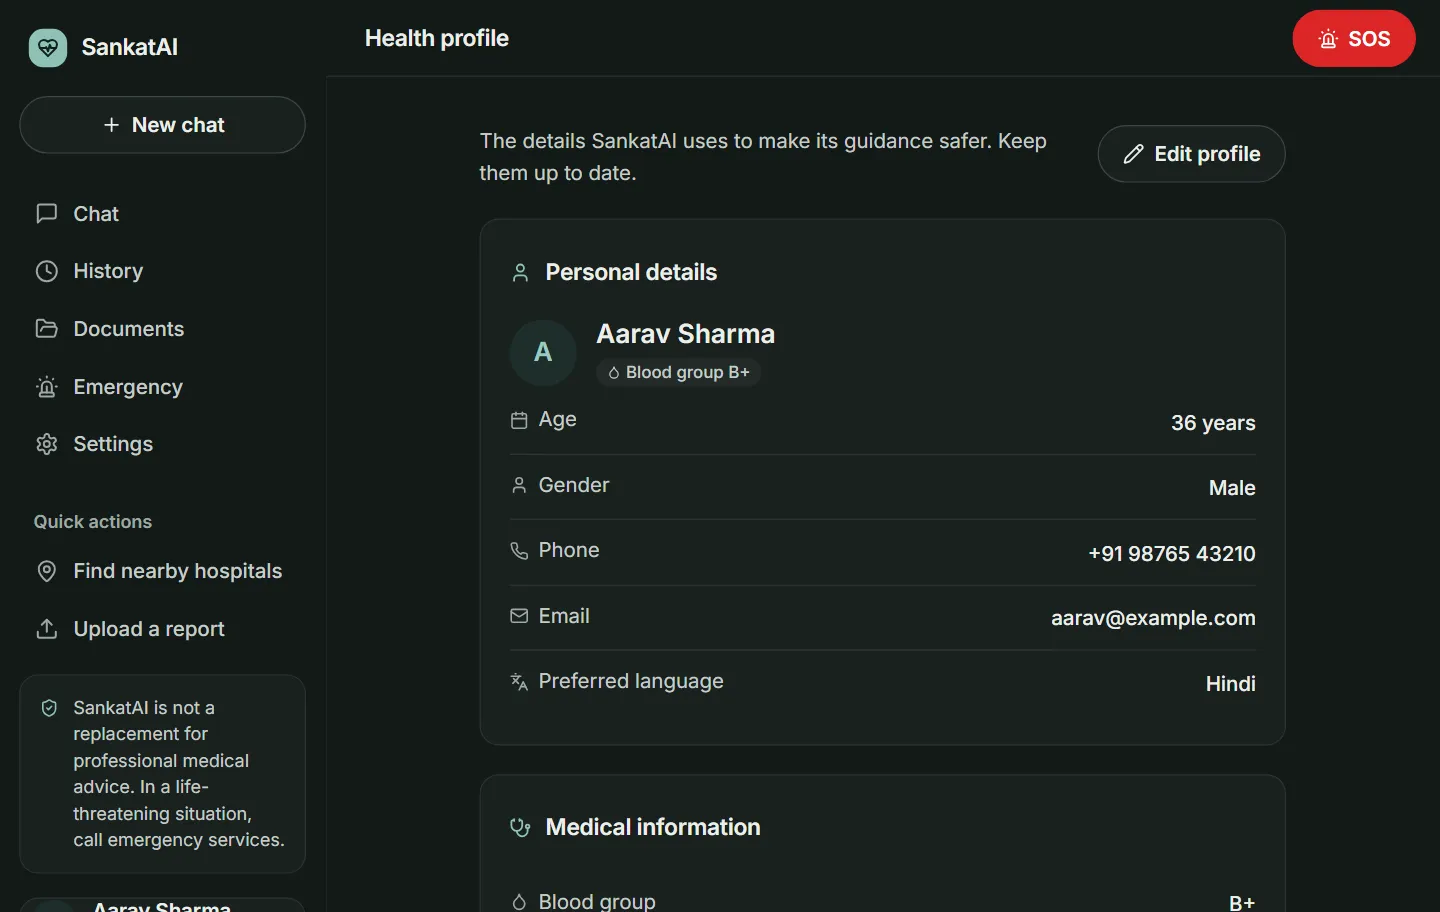
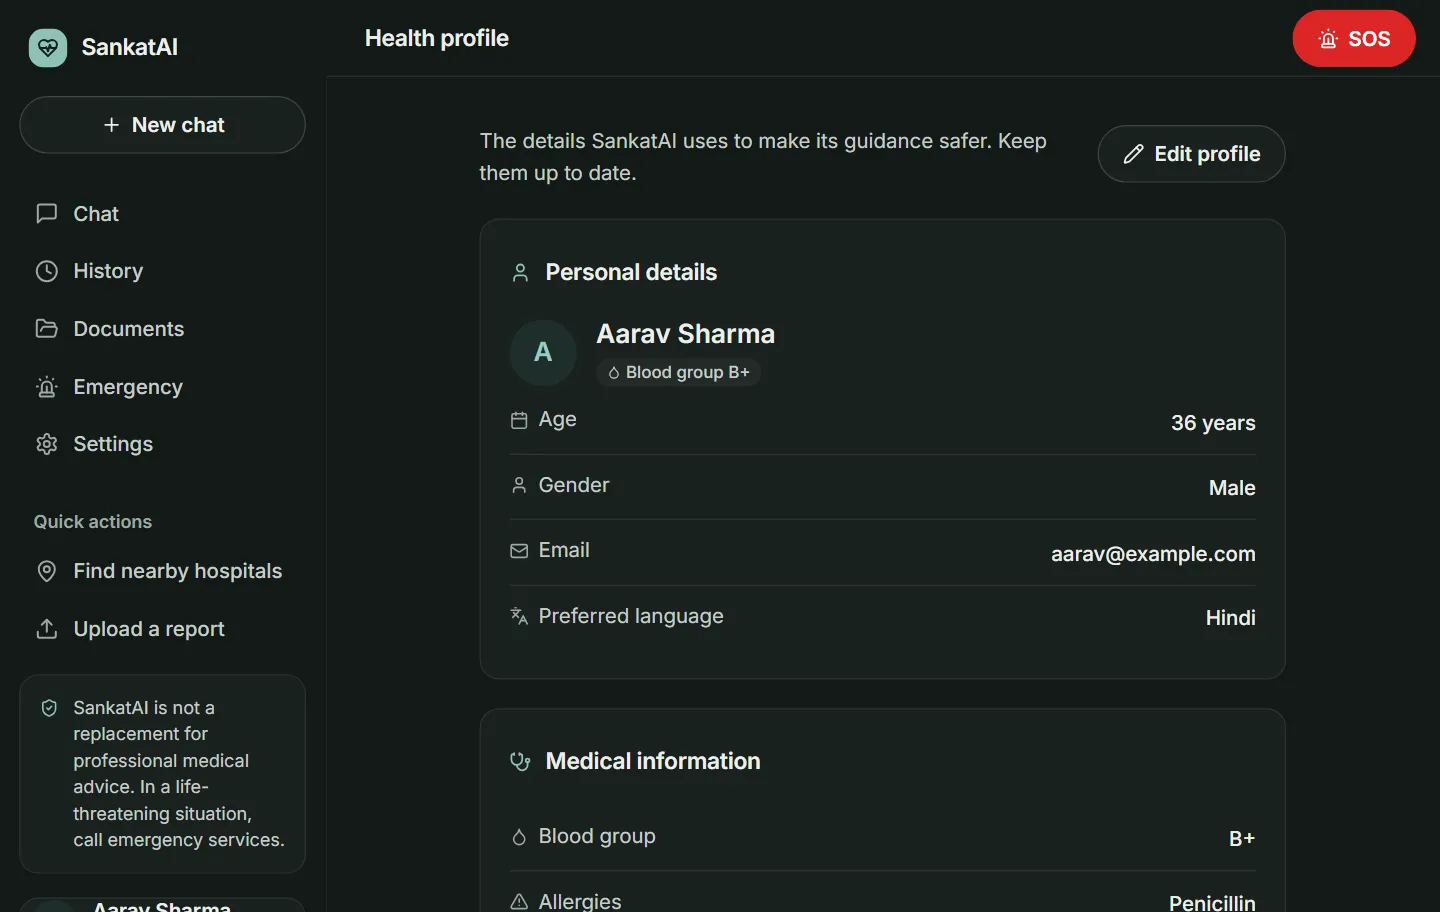
Home page: no phone numbers in the product screenshots
The showcase screenshots came from the dev preview's sample profile and
showed made-up numbers (+91 98765 43210, +91 91234 56789). In showcase
mode the preview now hides the profile Phone row and the emergency
contact's number (CSS only; the contact stays so its features still
show, 108/112 are untouched). All 14 webp shots re-captured.

The preview also gains a sample triage-v2 conversation (dev only).

diff --git a/apps/web/src/dev/preview.jsx b/apps/web/src/dev/preview.jsx
@@ -69,7 +69,22 @@ const messages = {
     { id: 'm5', role: 'user', content: 'High fever and headache for 2 days.', createdAt: iso(0.8 * D), attachmentIds: [] },
     { id: 'm6', role: 'assistant', content: ai({ followUpQuestions: ['How high has your temperature been?', 'Do you have a stiff neck or a rash?'] }), createdAt: iso(0.8 * D) },
   ],
-  c3: [], c4: [],
+  // Triage engine v2: one adaptive question, then a structured assessment.
+  c3: [
+    { id: 't1', role: 'user', content: 'I twisted my ankle while running. It is swollen.', createdAt: iso(5 * D + 0.3 * H), attachmentIds: [] },
+    { id: 't2', role: 'assistant', content: ai({ followUpQuestions: ['Can you stand and take a few steps on that foot?'], severity: null, riskScore: null, advice: '', confidence: 0.52, reasoning: 'Being able to walk helps tell a sprain from a fracture.', triage: { v: 2, mode: 'ask', slot: 'pain' } }), createdAt: iso(5 * D + 0.29 * H) },
+    { id: 't3', role: 'user', content: 'Yes, it hurts but I can walk. Pain is about 4/10.', createdAt: iso(5 * D + 0.2 * H), attachmentIds: [] },
+    { id: 't4', role: 'assistant', content: ai({ reasoning: 'You can walk on it and the pain is moderate (4/10), which points to a mild sprain rather than a fracture.', followUpQuestions: [], severity: 'LOW', riskScore: 22, advice: 'This sounds like a mild ankle sprain you can look after at home. Rest it for a day or two and keep it raised when you sit.', likelyCauses: ['Mild ankle sprain (stretched ligament)', 'Bruising of the soft tissue'], homeCare: ['Ice for 15–20 minutes every 2–3 hours for the first 2 days', 'Keep the foot raised above hip level when resting', 'A firm elastic bandage for support'], warningSigns: ['You cannot put any weight on it', 'The foot looks bent or feels numb', 'Swelling keeps growing after 48 hours'], seekCare: 'Self-care at home. See a doctor if you still cannot walk normally after 5 days or any warning sign appears.', confidence: 0.79, disclaimer: 'x', triage: { v: 2, mode: 'final' } }), createdAt: iso(5 * D + 0.19 * H), feedback: null },
+  ],
+  c4: [],
+}
+// showcase=1: no phone numbers in the home page screenshots — even sample ones
+// read as someone's real number. The contact stays (its features need a phone),
+// only the digits are hidden.
+if (SHOWCASE) {
+  const style = document.createElement('style')
+  style.textContent = '.emg-row:has(a[href^="tel:+"]) .emg-row-num, .ui-info-row:has(.lucide-phone) { display: none !important; }'
+  document.head.appendChild(style)
 }
 // showcase=1: a calm, complete conversation first, for the home page's product
 // screenshots (sample data, labelled as such on the page).
